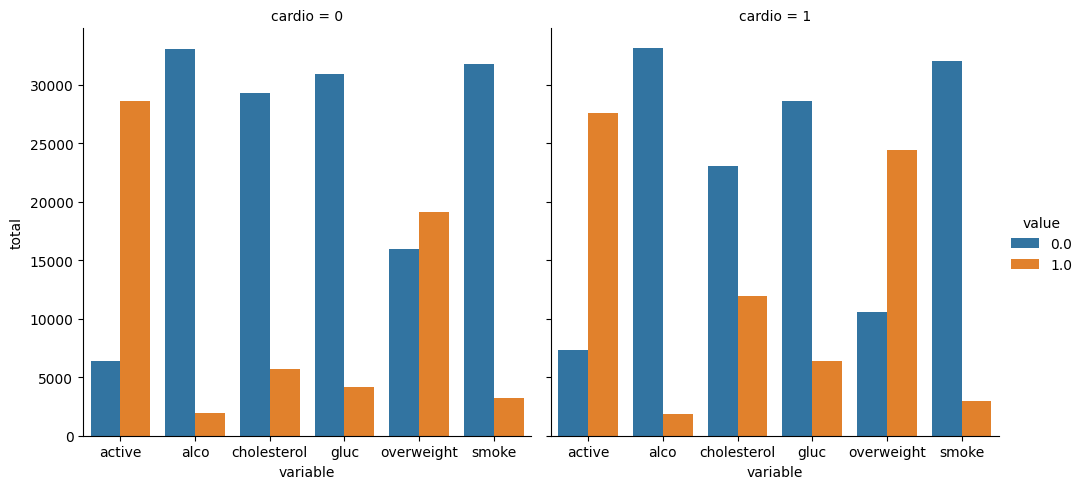
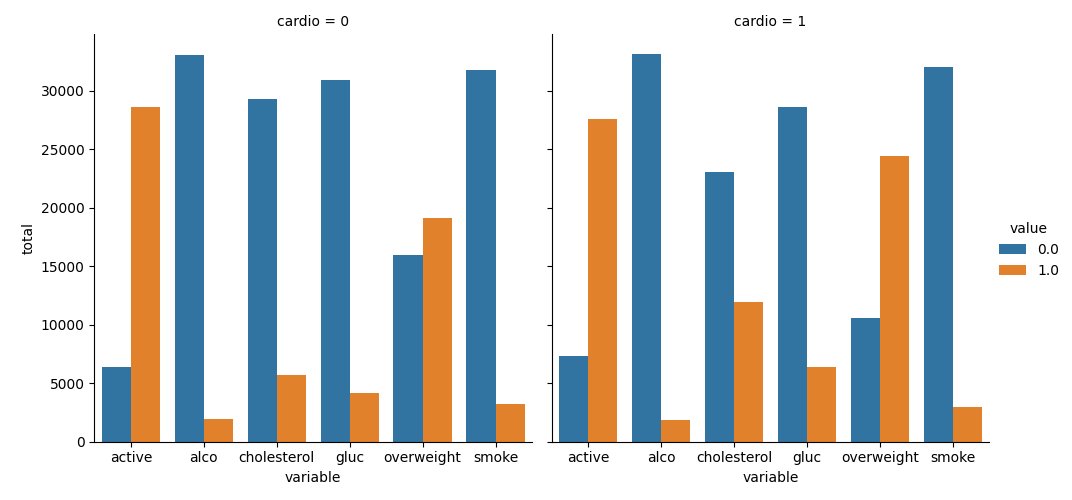
correcting boilerplate-medical-data-visualizer

diff --git a/Data Analysis With Python/boilerplate-medical-data-visualizer/medical_data_visualizer.py b/Data Analysis With Python/boilerplate-medical-data-visualizer/medical_data_visualizer.py
@@ -4,7 +4,7 @@ import matplotlib.pyplot as plt
 import numpy as np
 
 # Import data
-df = pd.read_csv('boilerplate-medical-data-visualizer\\medical_examination.csv')
+df = pd.read_csv('medical_examination.csv')
 
 # Add 'overweight' column
 df.loc[(df['weight']/((df['height']/100)*(df['height']/100))) > 25, 'overweight'] = 1
@@ -24,8 +24,9 @@ def draw_cat_plot():
     # Group and reformat the data to split it by 'cardio'. Show the counts of each feature. You will have to rename one of the columns for the catplot to work correctly.
 
     # Draw the catplot with 'sns.catplot()'
+    df_cat = sns.catplot(x='variable', hue='value', data=df_cat,col='cardio', kind="count").set_ylabels("total")
     plt.figure(figsize=(20,20))
-    fig = (sns.catplot(x='variable', hue='value', data=df_cat,col='cardio', kind="count")).set_ylabels("total")
+    fig = df_cat.fig
 
     # Do not modify the next two lines
     fig.savefig('catplot.png')
@@ -34,15 +35,16 @@ def draw_cat_plot():
 # Draw Heat Map
 def draw_heat_map():
     # Clean the data
-    df_heat = df[((df['ap_lo'] <= df['ap_hi']) &
-                 (df['height'] >= df['height'].quantile(0.025)) &
-                 (df['height'] >= df['height'].quantile(0.975)) &
-                 (df['weight'] >= df['weight'].quantile(0.025)) &
-                 (df['weight'] >= df['weight'].quantile(0.975)))
-                 ]
+    # df_heat = df[((df['ap_lo'] <= df['ap_hi']) &
+    #              (df['height'] >= df['height'].quantile(0.025)) &
+    #              (df['height'] >= df['height'].quantile(0.975)) &
+    #              (df['weight'] >= df['weight'].quantile(0.025)) &
+    #              (df['weight'] >= df['weight'].quantile(0.975)))
+    #              ]
+    df_heat = (df['ap_lo'] > df['ap_hi'])| (df['height'] < df['height'].quantile(0.025)) | (df['height'] > df['height'].quantile(0.975)) | (df['weight'] < df['weight'].quantile(0.025)) | (df['weight'] > df['weight'].quantile(0.975))
 
     # Calculate the correlation matrix
-    corr = df.corr()
+    corr = df.drop(df[df_heat].index).reset_index(drop=True).corr()
 
     # Generate a mask for the upper triangle
     mask = np.triu(np.ones_like(corr))
